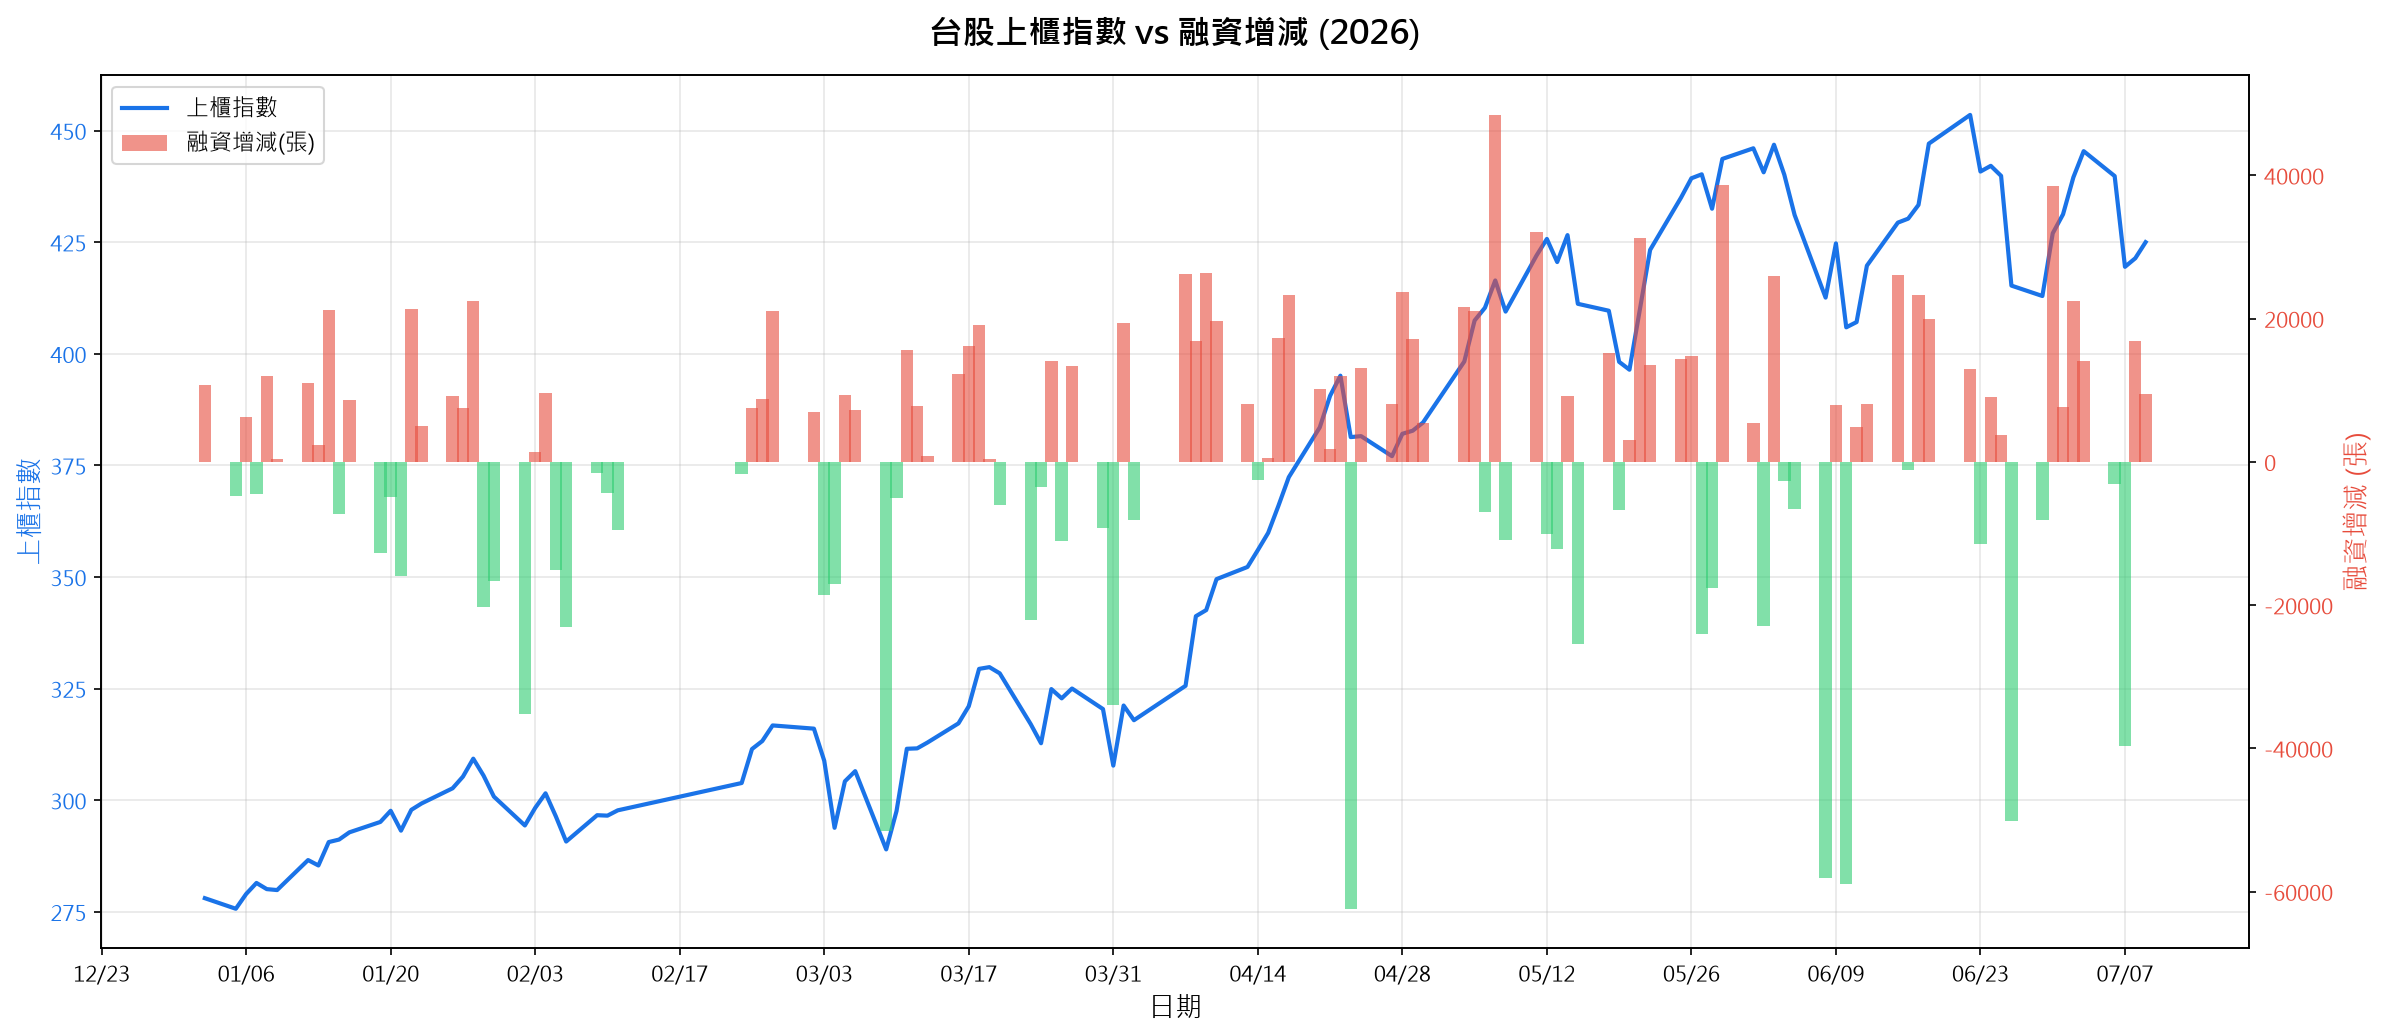
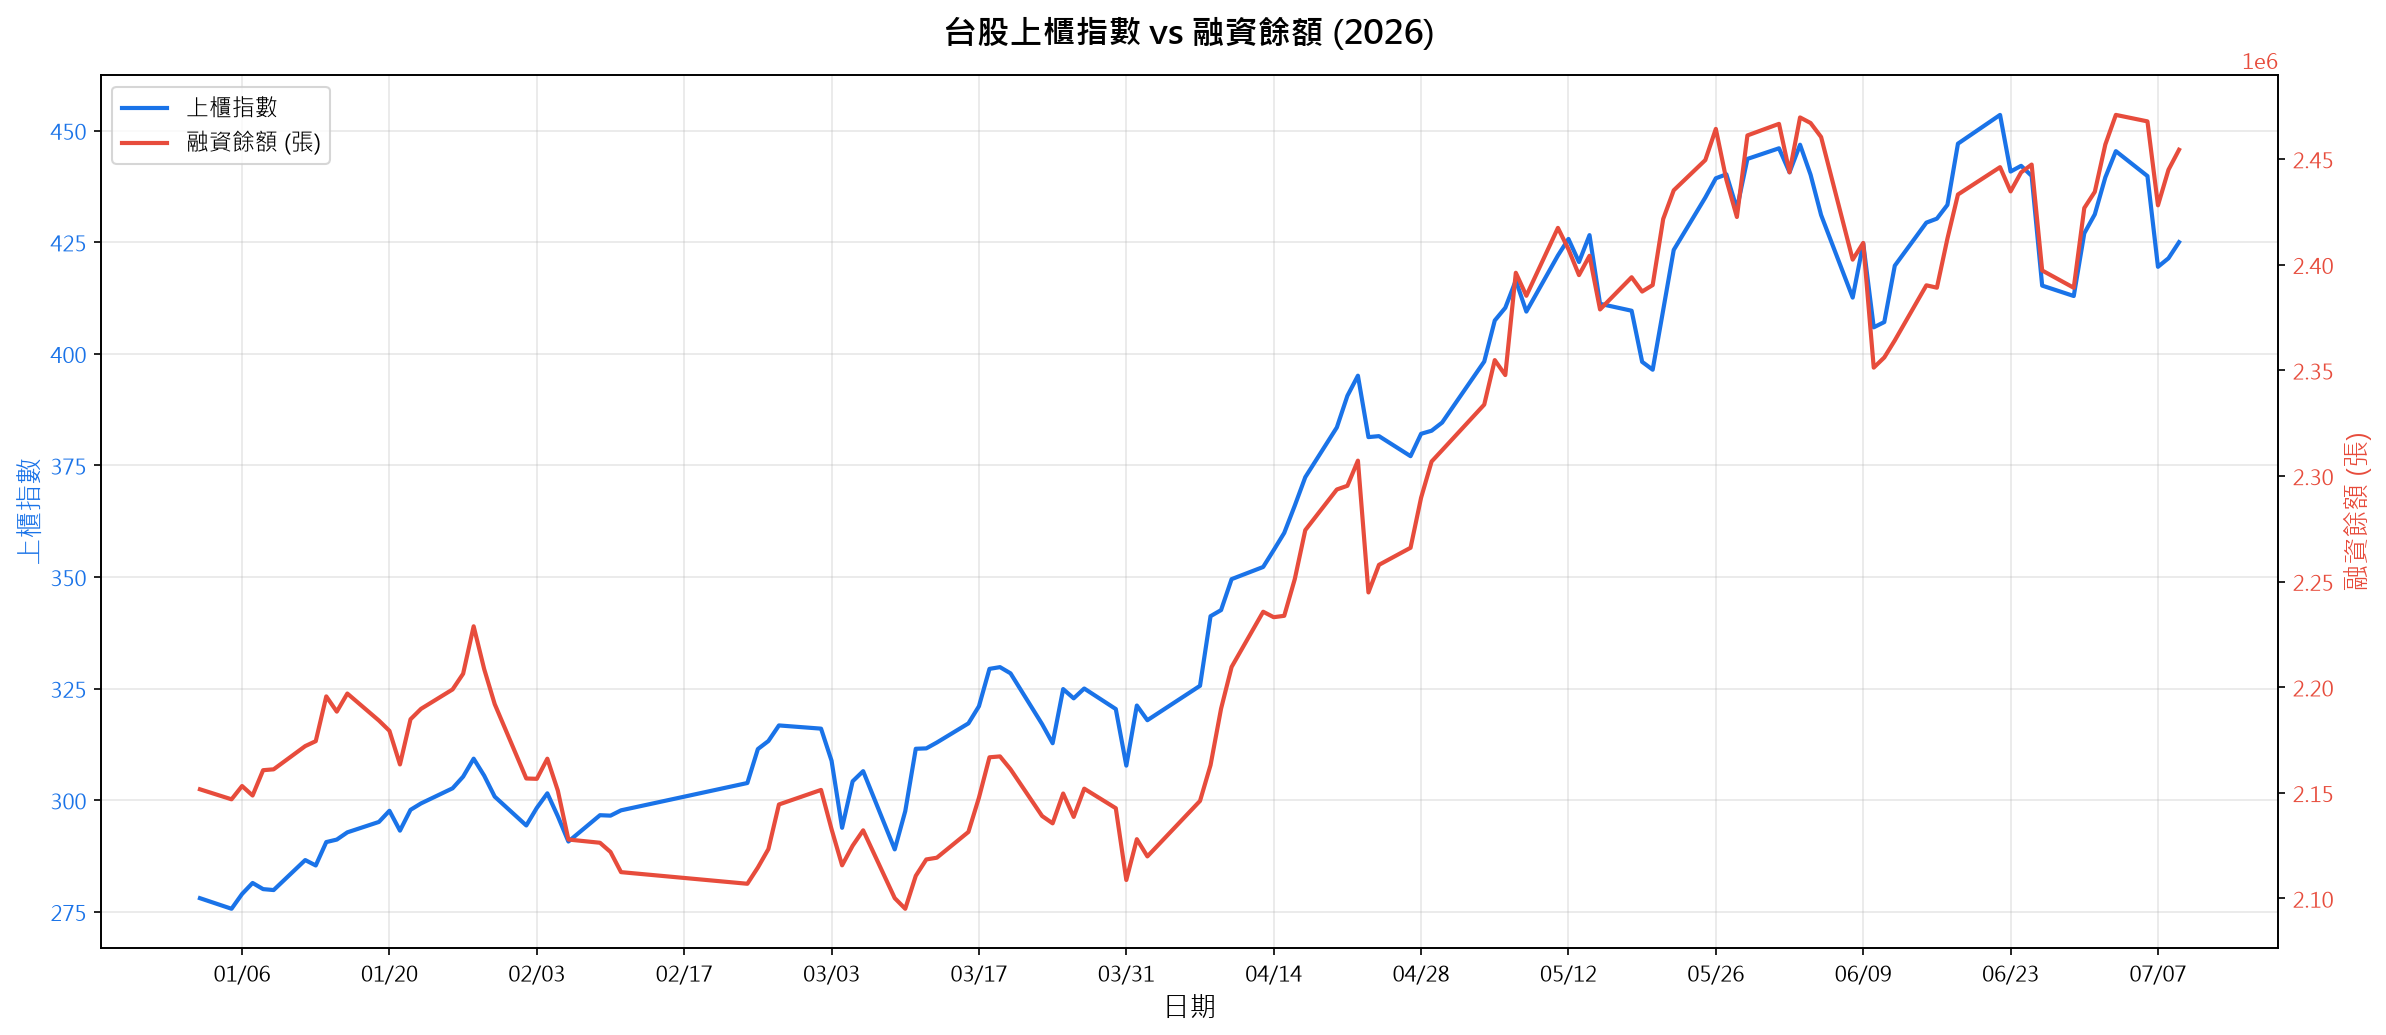
改為顯示融資餘額而非融資增減

diff --git a/plot_charts.py b/plot_charts.py
@@ -16,9 +16,9 @@ def plot_single(data_file, title, output_file, ylabel_idx, ylabel_margin):
     df = df.sort_values("date")
 
     df["index_value"] = pd.to_numeric(df["index_value"], errors="coerce")
-    df["margin_change"] = pd.to_numeric(df["margin_change"], errors="coerce")
+    df["margin_balance"] = pd.to_numeric(df["margin_balance"], errors="coerce")
 
-    df = df.dropna(subset=["index_value"])
+    df = df.dropna(subset=["index_value", "margin_balance"])
     df = df[df["date"] >= "2026-01-01"]
     df = df.set_index("date")
 
@@ -31,9 +31,7 @@ def plot_single(data_file, title, output_file, ylabel_idx, ylabel_margin):
     ax1.grid(True, alpha=0.3)
 
     ax2 = ax1.twinx()
-    margin = df["margin_change"].dropna()
-    colors = ["#e74c3c" if v > 0 else "#2ecc71" if v < 0 else "#999" for v in margin]
-    ax2.bar(margin.index, margin, color=colors, alpha=0.6, width=1.2, label="融資增減(張)")
+    ax2.plot(df.index, df["margin_balance"], color="#e74c3c", linewidth=2, label=ylabel_margin)
     ax2.set_ylabel(ylabel_margin, color="#e74c3c", fontsize=13)
     ax2.tick_params(axis="y", labelcolor="#e74c3c")
 
@@ -55,17 +53,17 @@ def plot_all():
     print("Generating charts...")
     plot_single(
         "twse_data.csv",
-        "台股上市加權指數 vs 融資增減 (2026)",
+        "台股上市加權指數 vs 融資餘額 (2026)",
         "twse_chart.png",
         "上市加權指數",
-        "融資增減 (張)",
+        "融資餘額 (張)",
     )
     plot_single(
         "tpex_data.csv",
-        "台股上櫃指數 vs 融資增減 (2026)",
+        "台股上櫃指數 vs 融資餘額 (2026)",
         "tpex_chart.png",
         "上櫃指數",
-        "融資增減 (張)",
+        "融資餘額 (張)",
     )
     print("Done!")
 